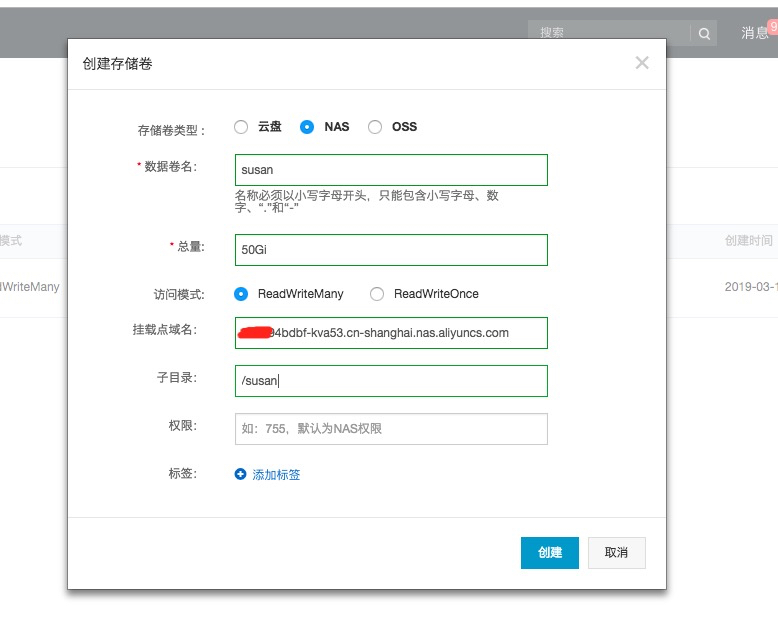
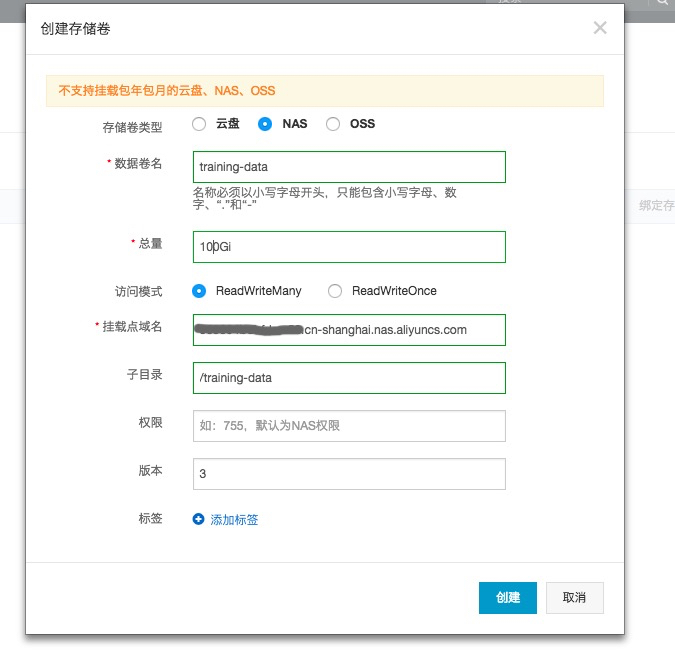
update docs: 1. public pvc is optional; 2. modify setup pvc docs

Changed region(s): [[0.0, 0.0, 1.0, 1.0]]

diff --git a/docs/setup/SETUP_USER_STORAGE.md b/docs/setup/SETUP_USER_STORAGE.md
@@ -1,7 +1,16 @@
-## 配置存放数据科学家的存储
-在Notebook中，为了保留数据科学家的工作内容。我们建议为用户创建属于自己的存储声明， 并挂载到Notebook的`/root`目录。 保障数据科学家的工作内容（代码，数据） 可以保留，不会随着容器删除而丢失。
-您需要创建属于每个数据科学家的存储声明，例如用户A和用户B，后端可以挂载到相同的NAS/CPFS，但是需要为指定不同的子目录保证他们工作环境内容隔离。
+## 配置Notebook存储
+在Notebook中，为了保留数据科学家的工作内容。我们建议为每个用户分配存储卷，并挂载到Notebook的`/root`目录， 确保数据科学家的工作内容（代码，数据）得以保留，不会随着容器删除而丢失。
 
-您可以通过以下流程创建属于数据科学家自己的存储：
+同时在团队开发中,我们建议分配一个共享的存储池，让数据和代码能够在团队中共享。部署Notebook时，如果您声明了配置公共存储，我们会将共享存储会挂载到Notebook的 `/root/public` 目录中，数据科学家可以通过这个目录，在团队之间可以相互分享数据，代码和模型。 
+
+在Kubernets中，通过存储卷和存储声明描述存储对象。 作为集群管理员，分配环境时您需要为每个数据科学家创建属于自己的存储声明，例如用户A和用户B，存储声明的后端可以挂载到相同的 NAS/CPFS，但是必须指定不同的子目录，保证他们工作环境隔离。
+
+#### 共享存储类型
+
+您可以通过以下流程创建存储声明，选择合适的存储类型：
 * [配置NAS存储](./SETUP_NAS.md)
 * [配置CPFS存储](./SETUP_CPFS.md)
+
+#### 步骤
+1. 您需要创建一个用于存放共享数据的存储卷，我们建议命名为`public-data`。（本步骤可选择操作）
+2. 搭建每个数据科学家的Notebook环境，您需要为他创建属于数据科学家自己的存储声明，用于存放他的工作数据，不同的数据科学家需要通过命名区分，本示例中我们命名为`traing-data`。

diff --git a/docs/setup/SETUP_NOTEBOOK.md b/docs/setup/SETUP_NOTEBOOK.md
@@ -37,8 +37,7 @@
 bash -s -- \
 --notebook-name susan \
 --ingress --ingress-domain foo.bar.com --ingress-secret notebook-secret \
---pvc-name susan-data \
---public-pvc-name public-data
+--pvc-name training-data
 ```
 
 上述安装执行中，可以通过以下参数定制部署的依赖组件：
@@ -49,8 +48,8 @@ bash -s -- \
 --ingress           指定是否为Notebook配置Ingress
 --ingress-domain    指定为Notebook配置的Ingress域名，仅在指定--ingress时生效
 --ingress-secret    指定为Notebook配置的Ingress，HTTPS使用的证书Secret，仅在指定--ingress时生效
---pvc-name          指定Notebook用于挂载的存储声明，会将Notebook的/root目录挂载为这个存储声明，默认值为training-data
---public-pvc-name   指定用于挂载共享数据的存储声明，会将Notebook的/root/public 目录挂载为这个存储声明
+--pvc-name          指定Notebook用于挂载的存储声明，将Notebook的/root目录挂载为这个存储声明，默认值为training-data
+--public-pvc-name   指定用于挂载共享数据的存储声明，将Notebook的/root/public 目录挂载为这个存储声明
 --notebook-image    指定Notebook的使用镜像，默认是registry.cn-beijing.aliyuncs.com/acs/arena-notebook:cpu
 --clean             如果指定了--clean参数，会清理之前通过脚本部署的Notebook应用
 ```

diff --git a/README.md b/README.md
@@ -18,9 +18,8 @@
 	1.  环境准备
 		* [创建集群](docs/setup/CREATE_CLUSTER.md)
 		* [安装机器学习基础架构](docs/setup/INSTALL_ARENA.md)
-		* [配置存放公共数据的存储](docs/setup/SETUP_PUBLIC_STORAGE.md)
 	2. 部署Notebook
-		* [配置存放数据科学家的存储](docs/setup/SETUP_USER_STORAGE.md)
+		* [配置共享存储](docs/setup/SETUP_USER_STORAGE.md)
 		* [部署数据科学家工作环境（Notebook）](docs/setup/SETUP_NOTEBOOK.md)
 
 * 数据科学家的工作
